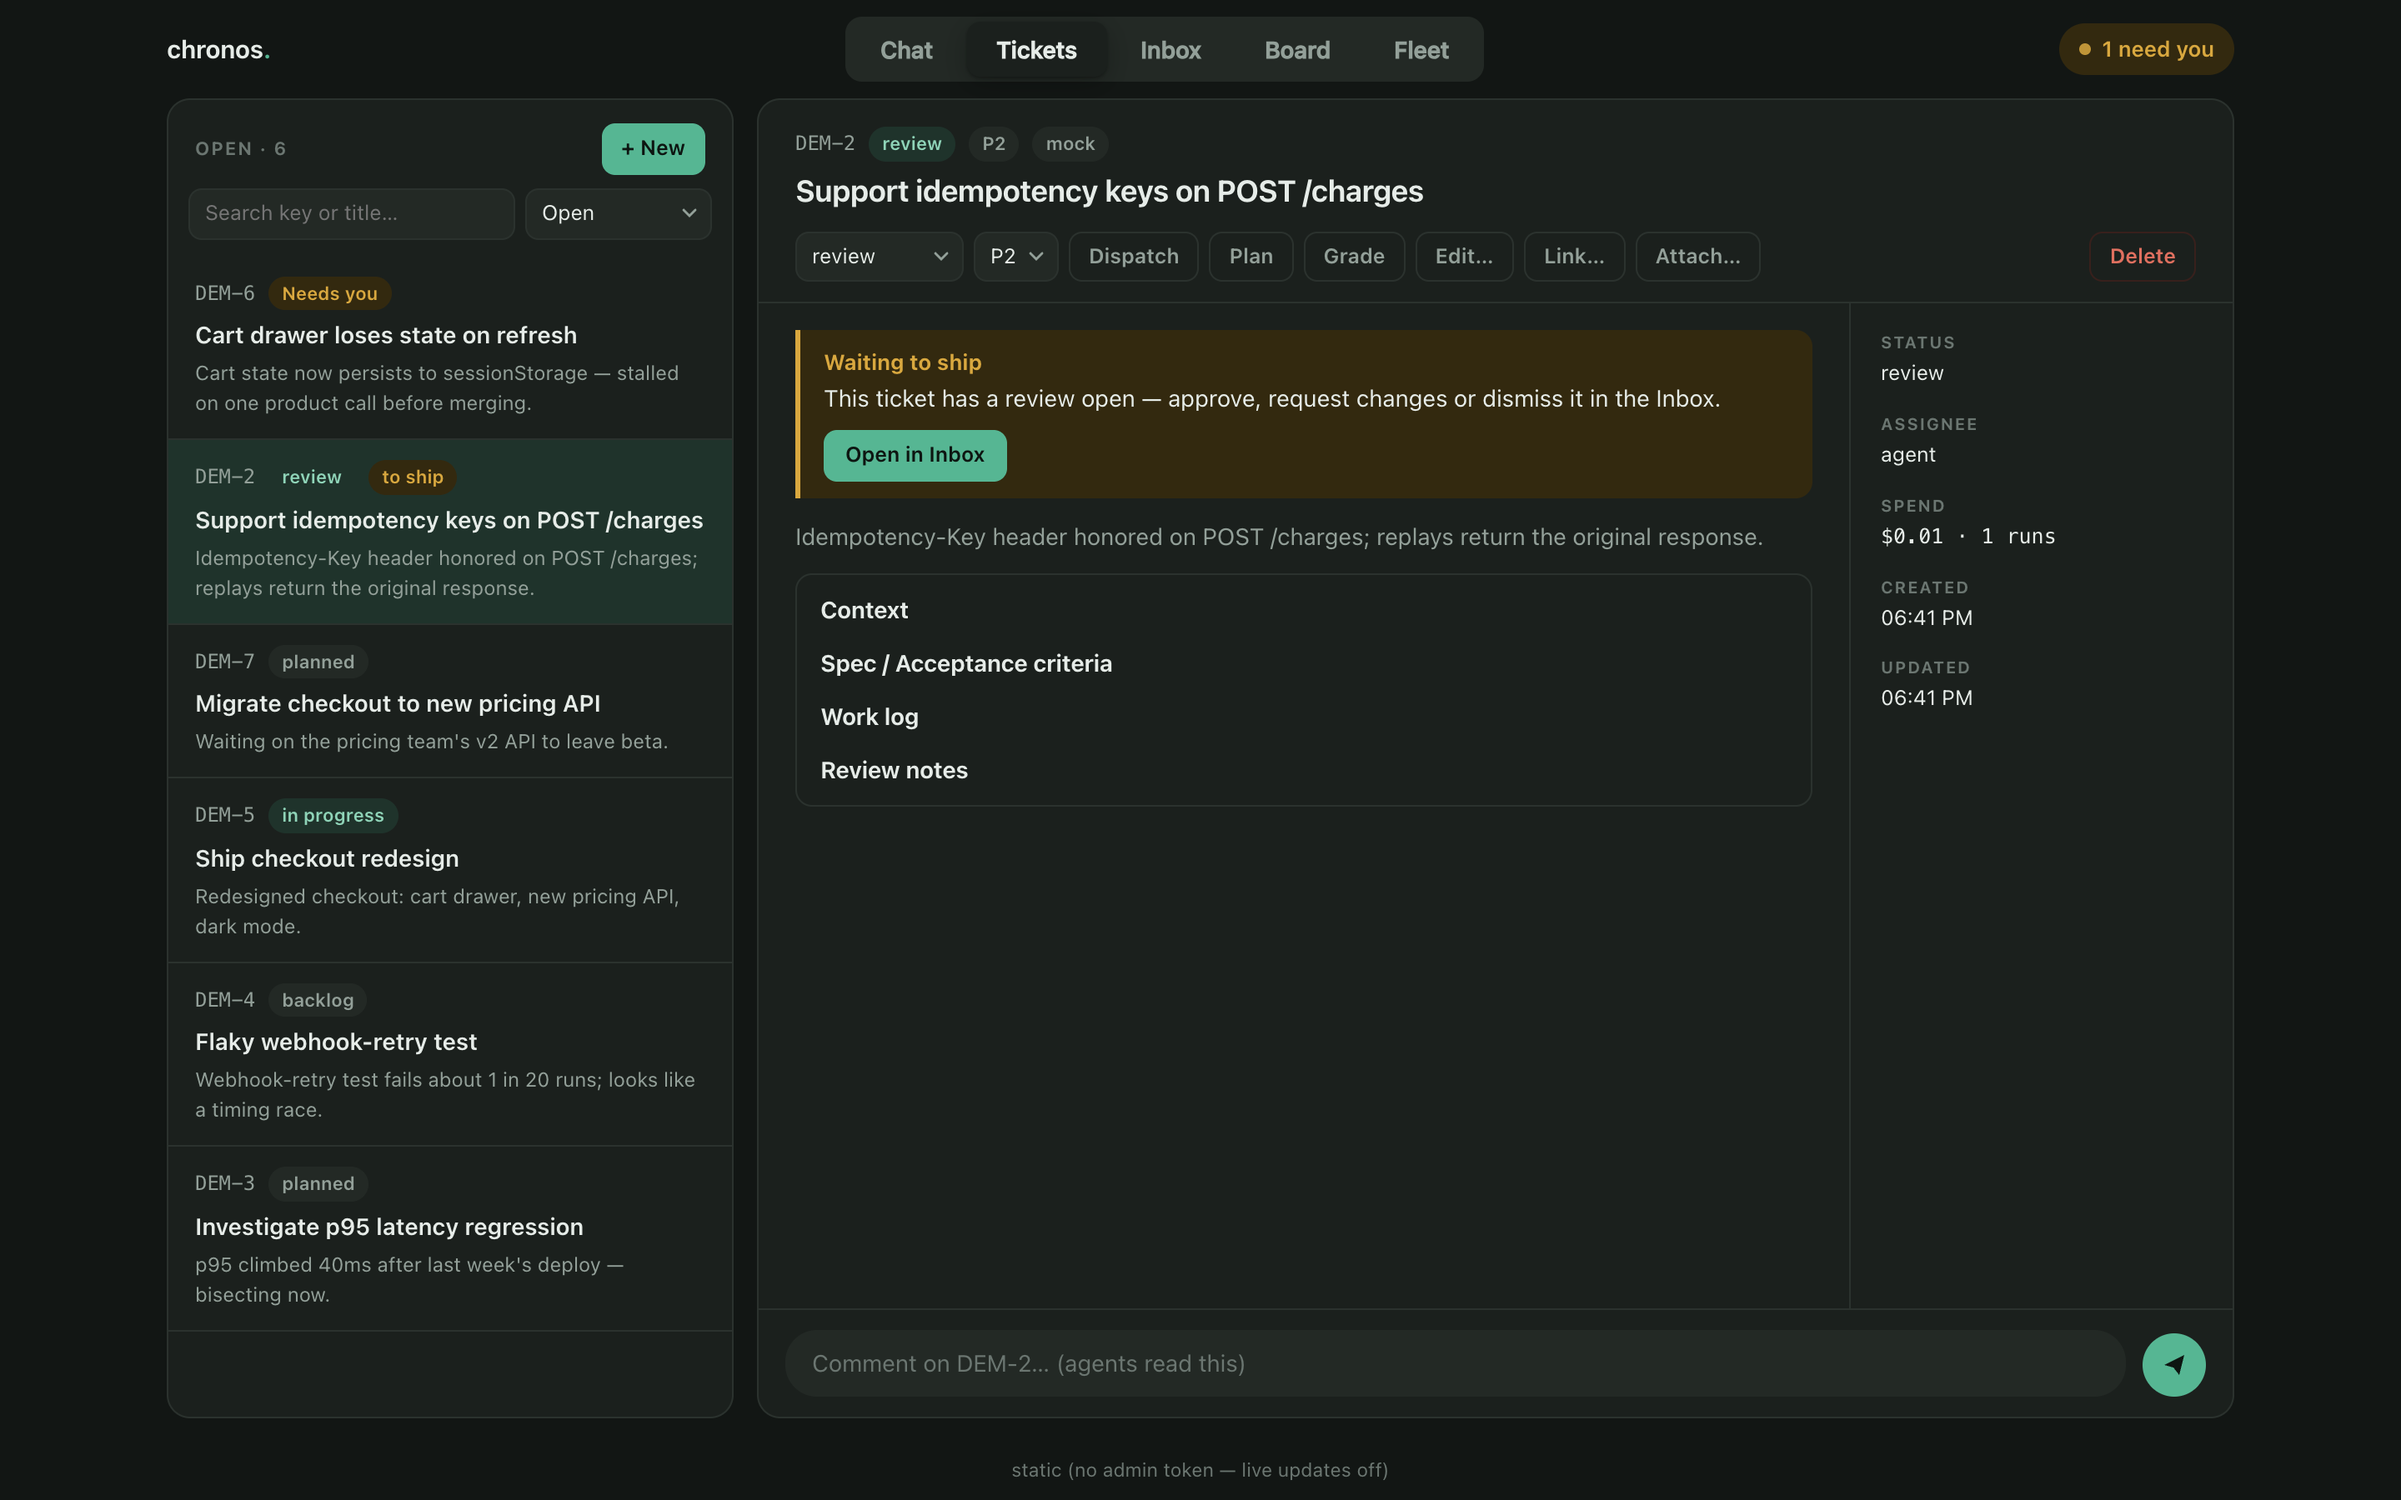
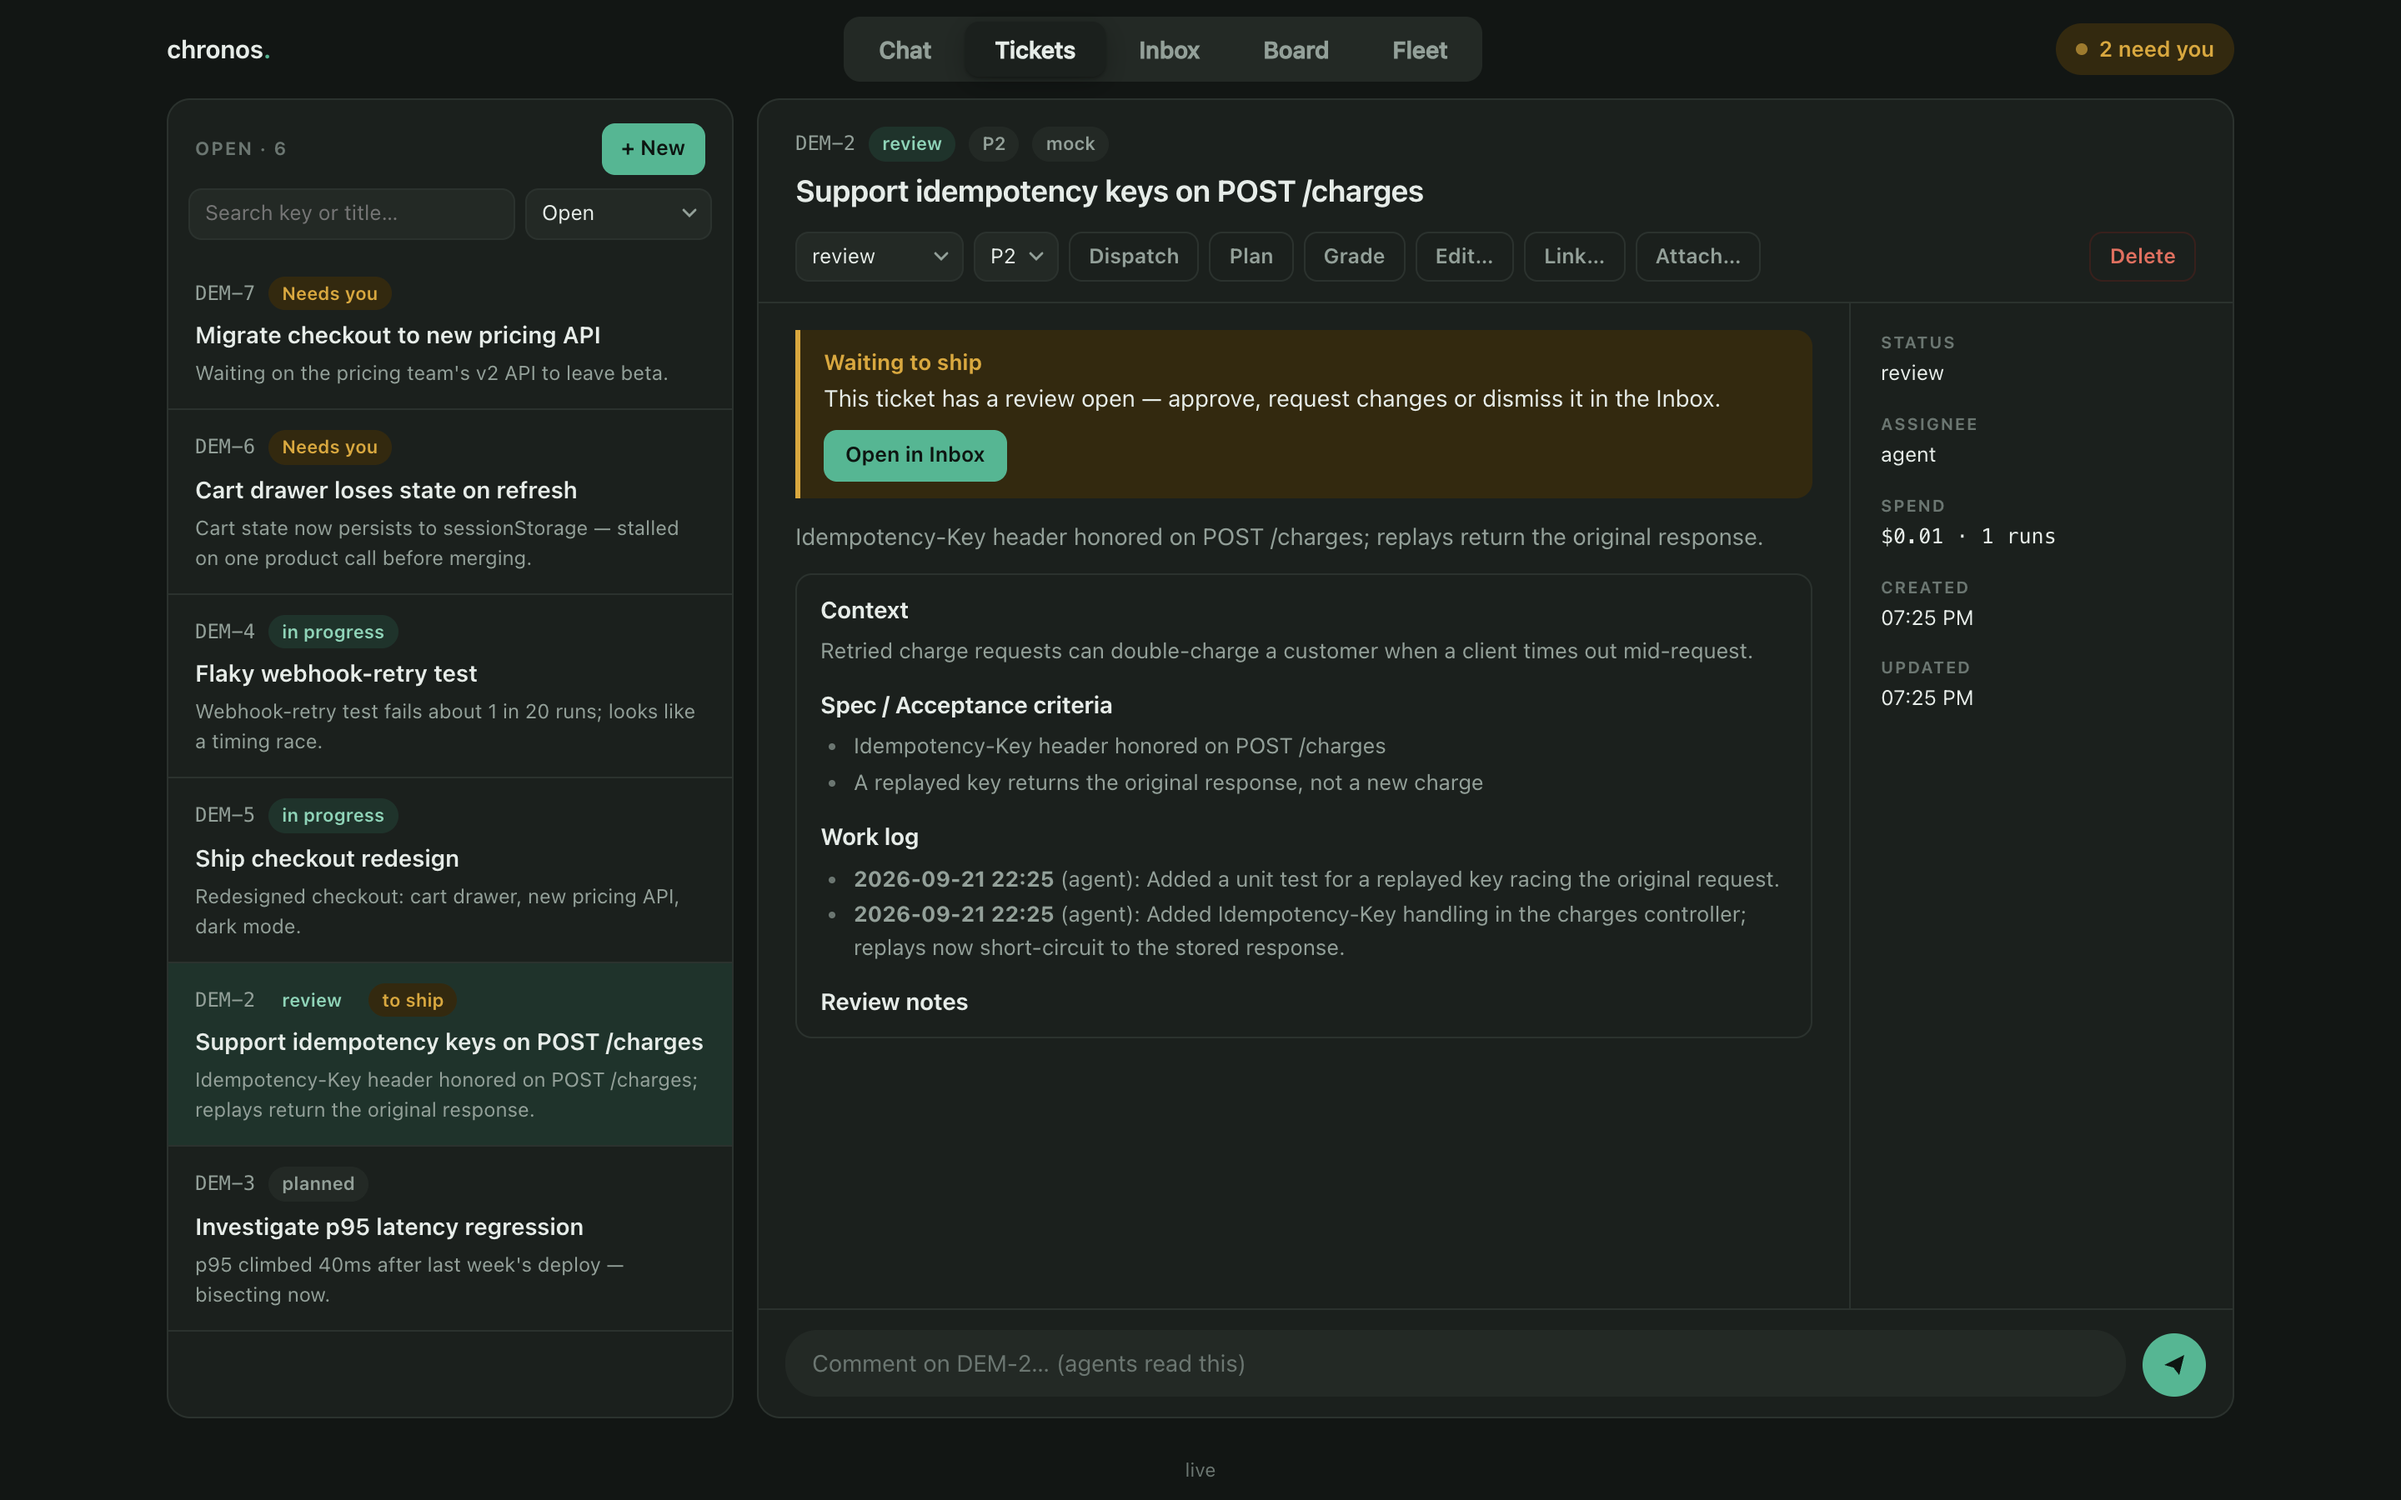
site/assets: rework round 1 — real /desk sessions, live auth, no dup ask
Lead review of PR #16 round 1 found: desk-hero wasn't /desk (it was app.html's
mostly-empty Fleet tab); every shot showed "static (no admin token)"; phone.png
was app.html squeezed to mobile, not phone.html; ticket-run's Work log/Review
notes sections were empty; tests needed a real CI verdict, not "flaky".

- src/backends/mock.ts: add interactiveArgs(), a harmless `node -e` script for
  a live PTY (Desk terminal), distinct from the existing headless-run scripts.
  Prints a short transcript once the ticket brief is typed in, then idles.
- scripts/demo-seed.mjs: open 5 real (mock-backend, no real CLI/credentials)
  Desk sessions over the API — a Lead, two of its workers (one blocked on a
  question), one independent worker, one finished/killed session — plus real
  ticket context/acceptance criteria and Work log notes. A Lead's lead_id
  linkage needs its own x-mc-lead credential, which the API deliberately never
  returns; read it directly from the scratch DB file instead (local, read-only,
  a throwaway sqlite file the script just created).
- scripts/demo-screenshot.mjs: auth every page via localStorage/window token
  injection (never a pasted dialog, never a URL) so "static" never renders;
  desk-hero now shoots /desk itself; phone now shoots /phone.html. Fixed a
  duplicate "Waiting on you" block on DEM-6 (a run-based ask and a
  session-based ask had landed on the same ticket) by moving the session ask
  to a different ticket.
- site/assets/README.md updated to match.
[…]

diff --git a/src/backends/mock.ts b/src/backends/mock.ts
@@ -165,11 +165,51 @@ rl.on("line", (line) => {
 });
 `;
 
+// Interactive PTY child (Desk terminal, not a headless run): a real terminal a human can watch
+// live in xterm.js, so — unlike every script above — this one prints PLAIN colored text, not
+// stream-json. Only used for scratch/demo Desk sessions (site/assets/README.md) that need a
+// live, harmless process backing a terminal card without spawning a real agent CLI or touching
+// real credentials. Waits for the seed (the ticket brief, typed in once the "CLI" has "booted")
+// then prints a short plausible-looking transcript and goes idle — the actual state a screenshot
+// shows (working / blocked / done) comes from the session's `mc state`/ask data, set over the API
+// by the seed script, not from anything this prints.
+const INTERACTIVE_SCRIPT = `
+const readline = require("node:readline");
+const rl = readline.createInterface({ input: process.stdin, terminal: false });
+const g = (s) => "\\x1b[32m" + s + "\\x1b[0m";
+const d = (s) => "\\x1b[2m" + s + "\\x1b[0m";
+let responded = false;
+rl.on("line", () => {
+  if (responded) return;
+  responded = true;
+  const lines = [
+    "reading the ticket + repo context...",
+    "found the relevant files.",
+    "editing...",
+    "running tests...",
+    d("  ok — tests green"),
+    "writing a summary.",
+  ];
+  let i = 0;
+  const tick = () => {
+    if (i >= lines.length) return;
+    process.stdout.write(g("\\u2022 ") + lines[i] + "\\r\\n");
+    i++;
+    setTimeout(tick, 350);
+  };
+  setTimeout(tick, 300);
+});
+`;
+
 export const mockBackend: AgentBackend = {
   name: "mock",
   supportsResume: true,
   appendsSystem: true,
   bin: () => process.execPath,
+
+  interactiveArgs(): string[] {
+    return ["-e", INTERACTIVE_SCRIPT];
+  },
 
   buildArgs(job: Job, sessionId: string, context: string | null, resumeSessionId?: string | null): string[] {
     // A resume really continues the old session id (mirrors claude --resume) — otherwise a future

diff --git a/site/assets/README.md b/site/assets/README.md
@@ -8,15 +8,10 @@ scratch.
 
 | File | What it shows |
 | --- | --- |
-| `desk-hero.webp` / `.png` | `/app`'s Fleet tab: spend/success metrics and a blocked run card, waiting on a human answer. |
-| `ticket-run.webp` / `.png` | A ticket detail page (`/app`) mid-review, with its dispatched mock run's cost and one-line summary. |
+| `desk-hero.webp` / `.png` | `/desk` itself — the wall of live terminal cards: a Lead with two workers (one blocked on a question), plus an independent worker, in varied states. |
+| `ticket-run.webp` / `.png` | A ticket detail page (`/app`) mid-review, with its dispatched mock run's cost, summary and real Work log entries. |
 | `ask.webp` / `.png` | A ticket blocked on a human-in-the-loop ask, with the answer box open ("Waiting on you"). |
-| `phone.webp` / `.png` | `/app`'s ticket list at mobile width — the same "Needs you" ask, on a phone. |
-
-`/desk` and `/phone.html` are wired to live terminal *sessions*, not tickets — this scratch demo
-never opens a real Desk terminal (that would mean spawning a real agent CLI), so both stay in their
-honest "nothing open" empty state. `/app` reads the same ticket/run/ask data this demo seeds and is
-what actually looks alive, so the hero and phone shots use it instead.
+| `phone.webp` / `.png` | The phone PWA (`/phone.html`) at phone size — real, alive counts and an inline "asking" badge. |
 
 `logo.svg`, `favicon.svg`, `og-cover.jpg` and `mascot.svg` are owned by a separate mascot-design
 slice of this work and are not in this directory yet.
@@ -25,18 +20,36 @@ slice of this work and are not in this directory yet.
 
 None of it is real. `scripts/demo-seed.mjs` invents three fictional projects (`acme-api`,
 `storefront`, `docs-site`) with tickets across the full lifecycle (backlog → planned → in progress →
-review → done), a couple of runs on the `mock` backend (`src/backends/mock.ts` — no model calls, no
-cost), one ticket left genuinely paused on an open ask, and a goal ticket with three linked children
-standing in for a Lead's worker tickets (spinning up a real Lead terminal would mean spawning a real
-agent process, which a screenshot script shouldn't do). Every screenshot was taken with
-`scripts/demo-screenshot.mjs` against that seeded instance and inspected by hand for anything that
-looked like it came from the real daemon before being committed.
+review → done), a couple of headless runs on the `mock` backend (`src/backends/mock.ts` — no model
+calls, no cost), one ticket left genuinely paused on an open ask, and — for `/desk` and `/phone.html`,
+which are wired to live terminal *sessions* rather than tickets — five real (harmless) Desk terminal
+sessions: one Lead supervising the "Ship checkout redesign" goal, two of its workers (one blocked on
+its own question), one independent worker, and one finished/killed session for the "Recent" list.
+
+Those sessions never spawn a real agent CLI or touch real credentials: `mock.ts` now also implements
+`interactiveArgs()`, a harmless `node -e` script that prints a short plausible transcript once the
+ticket brief is typed in (the same way a real agent's first turn would be), then idles. The actual
+state each screenshot shows (working / blocked / done) comes from `mc state`-equivalent API calls and
+an ask the seed script makes afterward, not from anything that script prints.
+
+A Lead's workers are only linked to it (`lead_id`) when the caller presents that Lead's own
+credential (`x-mc-lead`) — nothing else can claim a worker for a Lead it doesn't own. That credential
+is deliberately stripped from every API response, so for this scratch-only seed the script reads it
+directly out of the scratch DB file instead — a local, read-only file read of a throwaway sqlite file
+the script just created itself, isolated from the live daemon's DB. `CHRONOS_DB` (the same value used
+to boot the scratch daemon) must therefore be set when running `demo-seed.mjs`.
+
+Every screenshot was taken with `scripts/demo-screenshot.mjs` against that seeded instance,
+authenticated with the **scratch** daemon's own admin token (written into browser storage before the
+page loads — never pasted into a visible dialog, never in a URL), and inspected by hand for anything
+that looked like it came from the real daemon before being committed.
 
 ## Regenerating
 
-You need a **scratch** Chronos daemon — a separate port, a separate throwaway DB, nothing shared
-with the live one — plus [Chrome for Testing](https://developer.chrome.com/blog/chrome-for-testing)
-and `cwebp` (`brew install webp`).
+You need a **scratch** Chronos daemon — a separate port, a separate throwaway DB (a real file, not
+`:memory:` — see above), nothing shared with the live one — plus
+[Chrome for Testing](https://developer.chrome.com/blog/chrome-for-testing) and `cwebp`
+(`brew install webp`).
 
 ```bash
 # 1. Boot a scratch daemon (never the live one — separate port, separate DB, background side
@@ -53,13 +66,19 @@ CHRONOS_QUOTA_GATE=off CHRONOS_MEMORY_CONFLICTS=0 CHRONOS_REPO_SCAN_MIN=0 \
 CHRONOS_CONNECTOR_SYNC_MIN=0 CHRONOS_MONITOR_MIN=0 CHRONOS_RECOVER_SWEEP_MIN=0 \
 npx tsx src/index.ts &
 
-# 2. Seed it with fictional demo data (purely over HTTP — see the script for exact endpoints).
+# 2. Seed it with fictional demo data (over HTTP, plus one direct read-only peek at the scratch DB
+#    file for a Lead's session token — see demo-seed.mjs).
 CHRONOS_BASE_URL=http://127.0.0.1:7799 CHRONOS_ADMIN_TOKEN=scratch-demo-token \
+CHRONOS_DB=/tmp/chronos-scratch/scratch.db \
   node scripts/demo-seed.mjs
 
 # 3. Capture the screenshots.
 CHRONOS_BASE_URL=http://127.0.0.1:7799 CHRONOS_ADMIN_TOKEN=scratch-demo-token \
   node scripts/demo-screenshot.mjs site/assets
+
+# 4. Shut the scratch daemon down and confirm nothing survived it (the Desk sessions above are real
+#    child processes, harmless `node -e` scripts, but still real PIDs on your machine).
+kill %1
 ```
 
 Before committing anything this produces: open every image and check for real workspace names,
